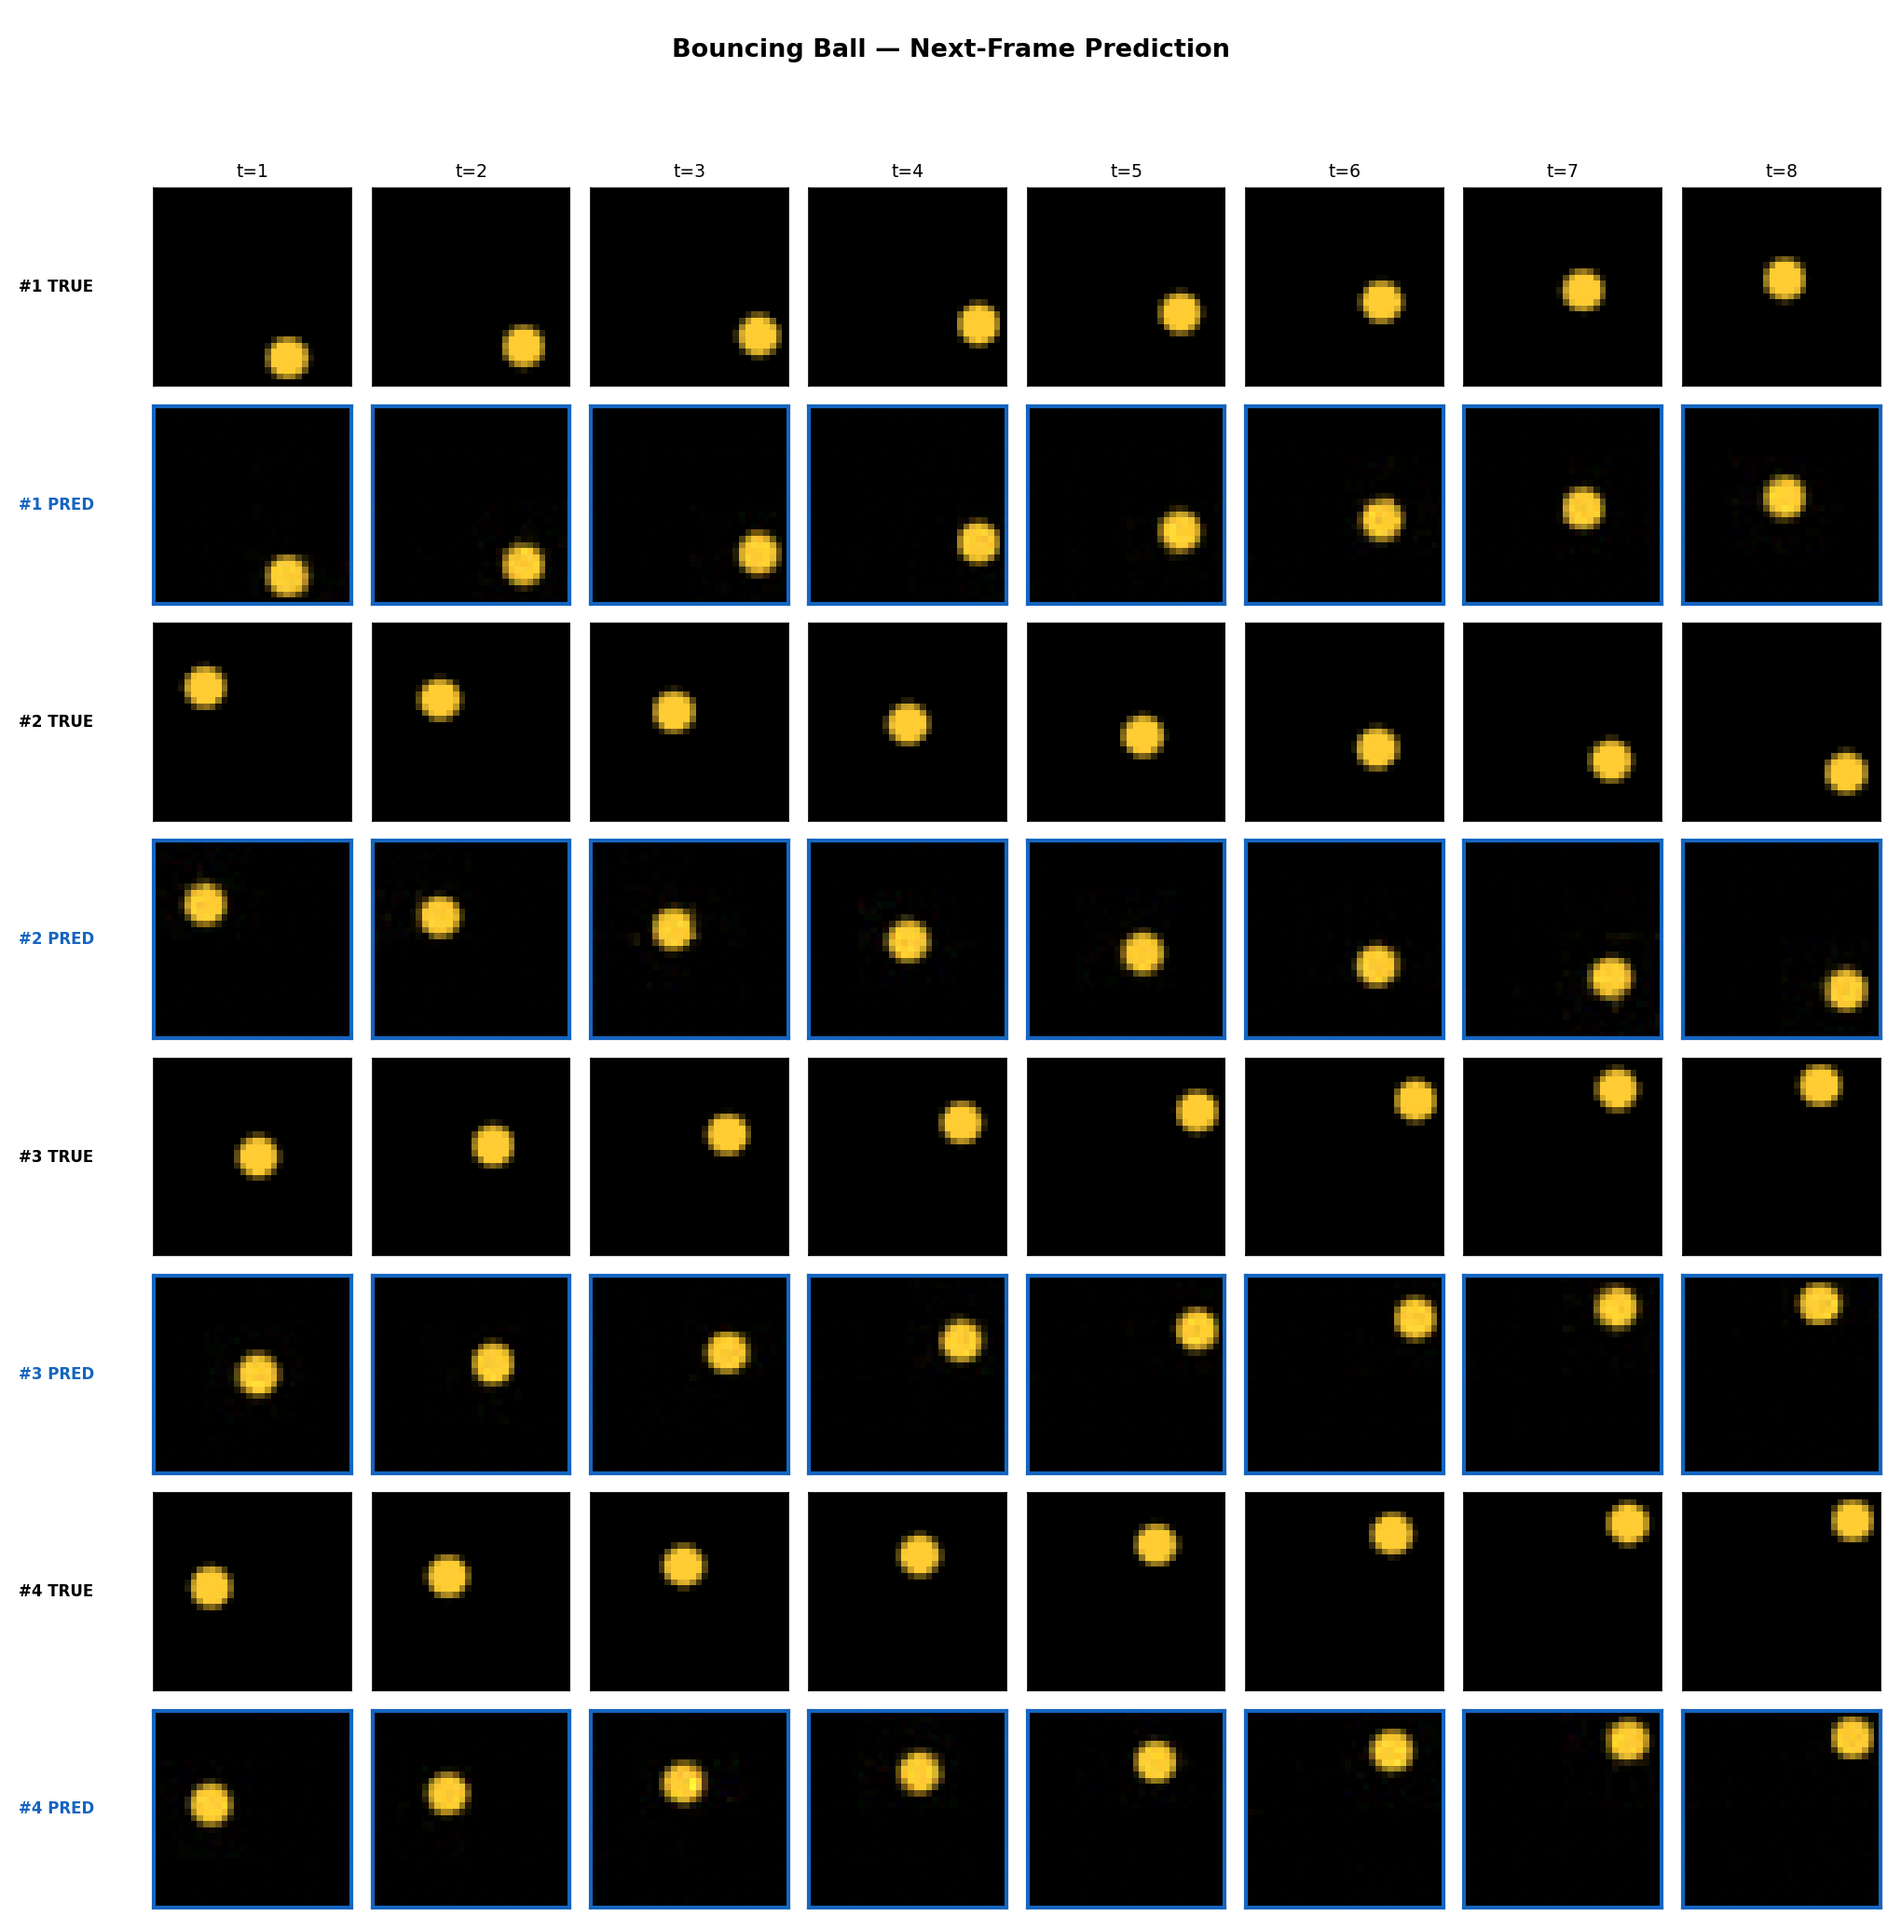
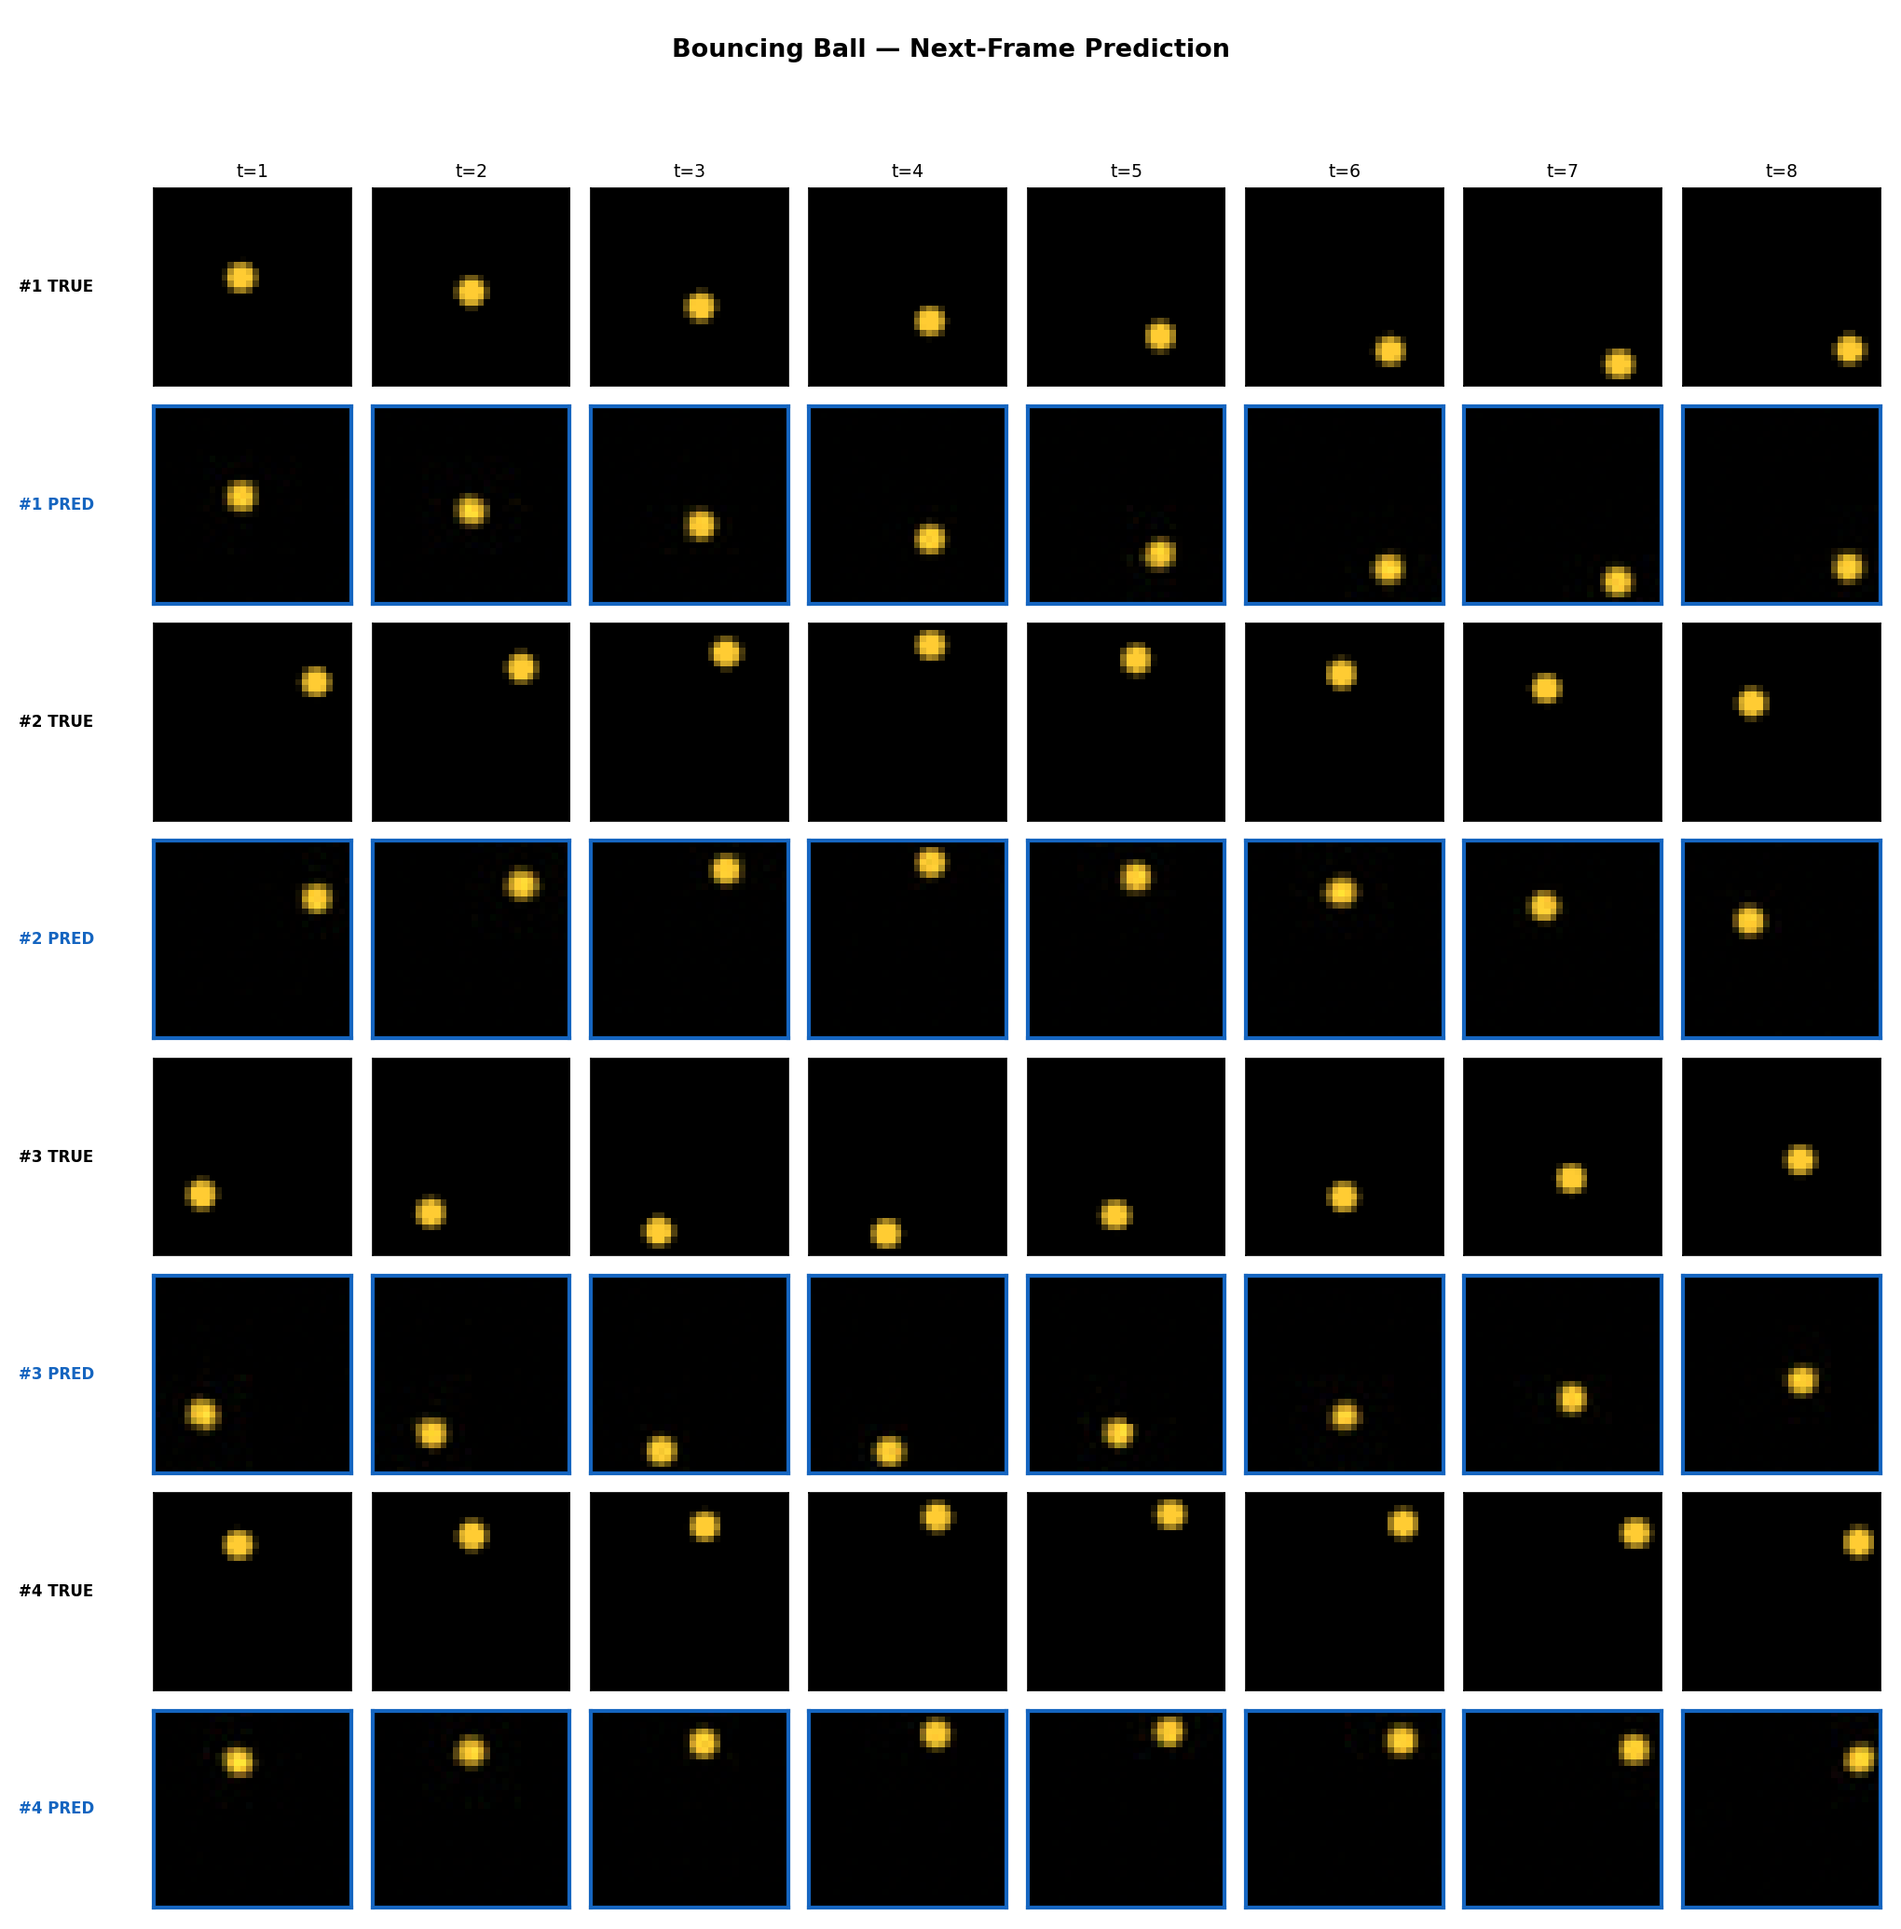
bouncing ball

diff --git a/examples/bouncing_ball.py b/examples/bouncing_ball.py
@@ -19,13 +19,11 @@ Run:
 
 from __future__ import annotations
 
-import math
 from pathlib import Path
 
 import matplotlib
 matplotlib.use("Agg")
 import matplotlib.pyplot as plt
-import numpy as np
 import torch
 import torch.nn as nn
 
@@ -39,7 +37,7 @@ IMG_H, IMG_W, IMG_C = 32, 32, 3
 PATCH_SIZE = 8
 N_PATCHES = (IMG_H // PATCH_SIZE) * (IMG_W // PATCH_SIZE)  # 16
 PATCH_DIM = PATCH_SIZE * PATCH_SIZE * IMG_C                 # 192
-BALL_RADIUS = 4.0
+BALL_RADIUS = 3.0
 BALL_COLOR = torch.tensor([1.0, 0.8, 0.2])  # warm yellow
 
 
@@ -47,14 +45,16 @@ def _render_frames(
     B: int,
     T: int,
     device: torch.device,
-) -> torch.Tensor:
+) -> tuple[torch.Tensor, torch.Tensor]:
     """
     Generate B trajectories of a bouncing ball, each with T frames.
 
     Returns:
-        (B, T, C, H, W) float tensor in [0, 1].
+        frames: (B, T, C, H, W) float tensor in [0, 1].
+        velocities: (B, T, 2) float tensor.
     """
     frames = torch.zeros(B, T, IMG_C, IMG_H, IMG_W, device=device)
+    velocities = torch.zeros(B, T, 2, device=device)
 
     # Pixel coordinate grids
     yy = torch.arange(IMG_H, device=device, dtype=torch.float32)
@@ -72,6 +72,8 @@ def _render_frames(
     vel = speed * sign  # (B, 2) — [vx, vy]
 
     for t in range(T):
+        velocities[:, t] = vel
+
         # Distance from each pixel to the ball centre
         dx = grid_x.unsqueeze(0) - px.view(B, 1, 1)  # (B, H, W)
         dy = grid_y.unsqueeze(0) - py.view(B, 1, 1)
@@ -97,7 +99,7 @@ def _render_frames(
                 vel[:, idx] = torch.where(below | above, -vel[:, idx], vel[:, idx])
                 coord.clamp_(BALL_RADIUS, limit - BALL_RADIUS - 1)
 
-    return frames
+    return frames, velocities
 
 
 def main() -> None:
@@ -108,7 +110,10 @@ def main() -> None:
     # ── Layout & model ───────────────────────────────────────────────────────
     layout = TokenLayout(
         n_latents=0,
-        segments=((Modality.IMAGE, N_PATCHES),),
+        segments=(
+            (Modality.ACTION, 1),
+            (Modality.IMAGE, N_PATCHES)
+        ),
     )
 
     # d_model must be >= patch_dim (192) to avoid an information bottleneck
@@ -116,18 +121,20 @@ def main() -> None:
     # override to 256 which comfortably exceeds patch_dim.
     config_name = "small"
     model = make_transformer(
-        config_name, layout, "encoder",
+        config_name, layout, "wm_agent_isolated",
         d_model=256,
         use_qk_norm=False, logit_cap=None, dropout=0.0,
         time_every=1,
     ).to(device)
     d_model = model.d_model
 
+    action_embed = nn.Linear(2, d_model).to(device)
     patch_embed = nn.Linear(PATCH_DIM, d_model).to(device)
     patch_decode = nn.Linear(d_model, PATCH_DIM).to(device)
 
     all_params = (
         list(model.parameters())
+        + list(action_embed.parameters())
         + list(patch_embed.parameters())
         + list(patch_decode.parameters())
     )
@@ -140,32 +147,49 @@ def main() -> None:
     print()
 
     # ── Synthetic data ───────────────────────────────────────────────────────
-    B, T = 8, 12
-    all_frames = _render_frames(B, T + 1, device)       # (B, T+1, C, H, W)
-    input_frames = all_frames[:, :-1]                     # (B, T, C, H, W)
-    target_frames = all_frames[:, 1:]                     # (B, T, C, H, W)
+    N_TRAIN, N_EVAL = 1024, 32
+    BATCH_SIZE = 32
+    T = 12
+    
+    print(f"Generating {N_TRAIN} train and {N_EVAL} eval trajectories...")
+    train_frames, train_vels = _render_frames(N_TRAIN, T + 1, device)
+    eval_frames, eval_vels = _render_frames(N_EVAL, T + 1, device)
 
-    # Patchify once (data is fixed)
-    input_patches = patchify(input_frames, PATCH_SIZE)    # (B, T, 16, 192)
-    target_patches = patchify(target_frames, PATCH_SIZE)
+    train_input = patchify(train_frames[:, :-1], PATCH_SIZE)
+    train_input_vels = train_vels[:, :-1]
+    train_target = patchify(train_frames[:, 1:], PATCH_SIZE)
+    
+    eval_input = patchify(eval_frames[:, :-1], PATCH_SIZE)
+    eval_input_vels = eval_vels[:, :-1]
+    eval_target = patchify(eval_frames[:, 1:], PATCH_SIZE)
 
     # ── Training loop ────────────────────────────────────────────────────────
     optimizer = torch.optim.Adam(all_params, lr=3e-4)
-    n_steps = 1500
+    n_steps = 3000
 
     print(f"Training for {n_steps} steps  (next-frame prediction, MSE loss)")
     print("-" * 55)
 
     steps: list[int] = []
-    losses: list[float] = []
+    train_losses: list[float] = []
+    eval_losses: list[float] = []
     initial_loss = None
 
     for step in range(1, n_steps + 1):
-        tokens = patch_embed(input_patches)        # (B, T, 16, d_model)
-        tokens = model(tokens)                      # (B, T, 16, d_model)
-        pred_patches = patch_decode(tokens)         # (B, T, 16, 192)
+        idx = torch.randint(0, N_TRAIN, (BATCH_SIZE,), device=device)
+        batch_input = train_input[idx]
+        batch_input_vels = train_input_vels[idx]
+        batch_target = train_target[idx]
 
-        loss = (pred_patches - target_patches).pow(2).mean()
+        img_tokens = patch_embed(batch_input)
+        vel_tokens = action_embed(batch_input_vels).unsqueeze(2)
+        tokens = torch.cat([vel_tokens, img_tokens], dim=2)
+        
+        tokens = model(tokens)
+        pred_img_tokens = tokens[:, :, 1:]
+        pred_patches = patch_decode(pred_img_tokens)
+
+        loss = (pred_patches - batch_target).pow(2).mean()
 
         if step == 1:
             initial_loss = loss.item()
@@ -174,19 +198,41 @@ def main() -> None:
         loss.backward()
         optimizer.step()
 
-        steps.append(step)
-        losses.append(loss.item())
+        if step % 10 == 0 or step == 1:
+            steps.append(step)
+            train_losses.append(loss.item())
+            
+            model.eval()
+            with torch.no_grad():
+                curr_img_toks = patch_embed(eval_input[:, 0:1])
+                preds = []
+                for t_step in range(T):
+                    curr_vel = action_embed(eval_input_vels[:, :t_step+1]).unsqueeze(2)
+                    tokens = torch.cat([curr_vel, curr_img_toks], dim=2)
+                    out = model(tokens)
+                    next_img_out = out[:, t_step:t_step+1, 1:]
+                    preds.append(next_img_out)
+                    if t_step < T - 1:
+                        next_patches = patch_decode(next_img_out)
+                        next_img_toks = patch_embed(next_patches)
+                        curr_img_toks = torch.cat([curr_img_toks, next_img_toks], dim=1)
+                
+                eval_pred_img = torch.cat(preds, dim=1)
+                eval_pred = patch_decode(eval_pred_img)
+                eval_loss = (eval_pred - eval_target).pow(2).mean().item()
+            model.train()
+            eval_losses.append(eval_loss)
 
         if step % 100 == 0 or step == 1:
-            print(f"  step {step:4d}  loss = {loss.item():.6f}")
+            print(f"  step {step:4d}  train_loss = {loss.item():.6f}  eval_loss = {eval_loss:.6f}")
 
-    final_loss = loss.item()
+    final_loss = eval_losses[-1]
     print("-" * 55)
-    print(f"Initial loss: {initial_loss:.6f}")
-    print(f"Final loss:   {final_loss:.6f}")
-    print(f"Reduction:    {final_loss / initial_loss:.4f}x")
+    print(f"Initial train loss: {initial_loss:.6f}")
+    print(f"Final eval loss:    {final_loss:.6f}")
+    print(f"Reduction:          {final_loss / initial_loss:.4f}x")
 
-    assert final_loss < initial_loss * 0.01, (
+    assert final_loss < initial_loss * 0.10, (
         f"Bouncing ball failed to converge: "
         f"{initial_loss:.6f} -> {final_loss:.6f}"
     )
@@ -196,10 +242,12 @@ def main() -> None:
 
     # 1) Loss curve
     fig, ax = plt.subplots(figsize=(8, 4))
-    ax.semilogy(steps, losses, linewidth=1.5)
+    ax.semilogy(steps, train_losses, linewidth=1.5, label="Train Loss", alpha=0.8)
+    ax.semilogy(steps, eval_losses, linewidth=1.5, label="Eval Loss", alpha=0.8)
     ax.set_xlabel("Training step")
     ax.set_ylabel("MSE loss (log scale)")
-    ax.set_title("Bouncing Ball — Training Loss")
+    ax.set_title("Bouncing Ball — Training & Eval Loss")
+    ax.legend()
     ax.grid(True, alpha=0.3)
     fig.tight_layout()
     loss_path = OUTPUT_DIR / "bouncing_ball_loss.png"
@@ -207,19 +255,29 @@ def main() -> None:
     plt.close(fig)
     print(f"Saved loss curve     -> {loss_path}")
 
-    # 2) Frame comparison: ground truth vs prediction for multiple trajectories
+    # 2) Frame comparison: autoregressive prediction for multiple EVAL trajectories
     model.eval()
     with torch.no_grad():
-        tokens = patch_embed(input_patches)
-        tokens = model(tokens)
-        pred_patches_final = patch_decode(tokens)
+        curr_img_toks = patch_embed(eval_input[:, 0:1])
+        preds = []
+        for t_step in range(T):
+            curr_vel = action_embed(eval_input_vels[:, :t_step+1]).unsqueeze(2)
+            tokens = torch.cat([curr_vel, curr_img_toks], dim=2)
+            out = model(tokens)
+            next_img_out = out[:, t_step:t_step+1, 1:]
+            preds.append(next_img_out)
+            if t_step < T - 1:
+                next_patches = patch_decode(next_img_out)
+                next_img_toks = patch_embed(next_patches)
+                curr_img_toks = torch.cat([curr_img_toks, next_img_toks], dim=1)
+        pred_patches_final = patch_decode(torch.cat(preds, dim=1))
 
     pred_images = unpatchify(
         pred_patches_final, H=IMG_H, W=IMG_W, C=IMG_C, patch_size=PATCH_SIZE
     )
     pred_images = pred_images.clamp(0, 1)
 
-    n_traj = min(B, 4)
+    n_traj = min(N_EVAL, 4)
     n_show = min(T, 8)
     n_rows = n_traj * 2
 
@@ -229,7 +287,7 @@ def main() -> None:
 
     for b in range(n_traj):
         for t in range(n_show):
-            gt = target_frames[b, t].permute(1, 2, 0).cpu().numpy()
+            gt = eval_frames[b, t + 1].permute(1, 2, 0).cpu().numpy()
             pr = pred_images[b, t].permute(1, 2, 0).cpu().numpy()
 
             r_gt = b * 2
